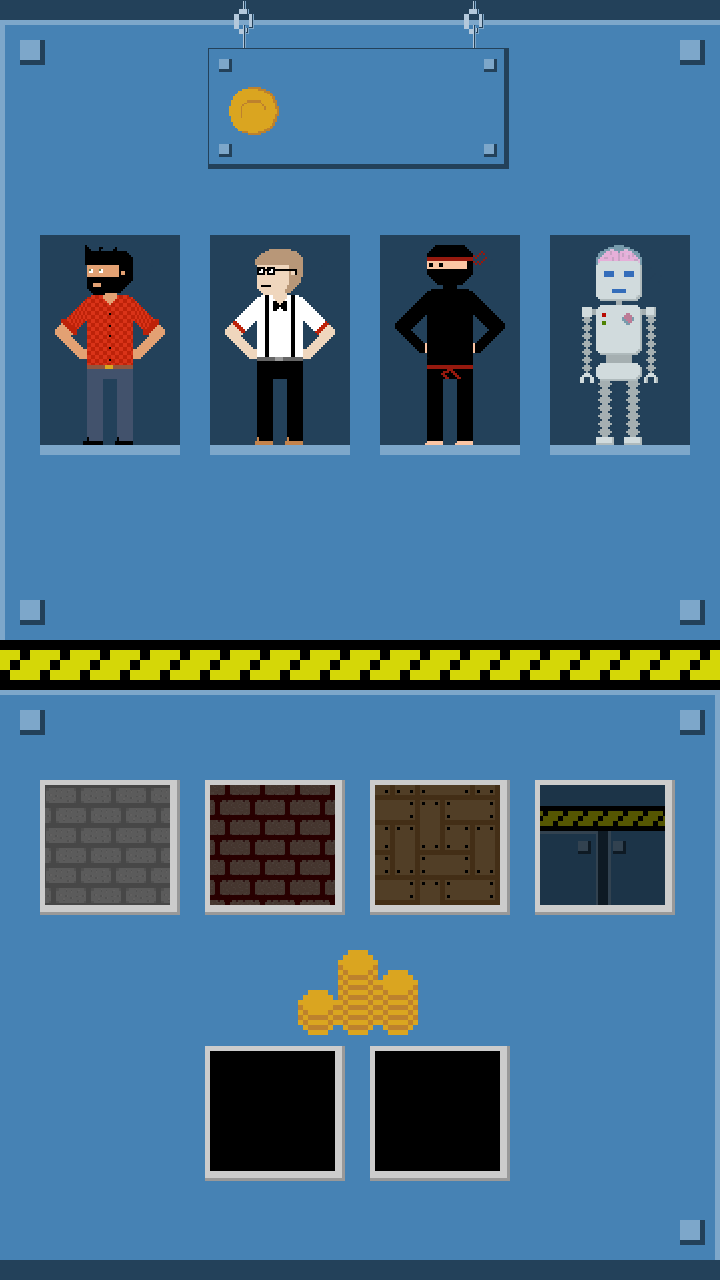
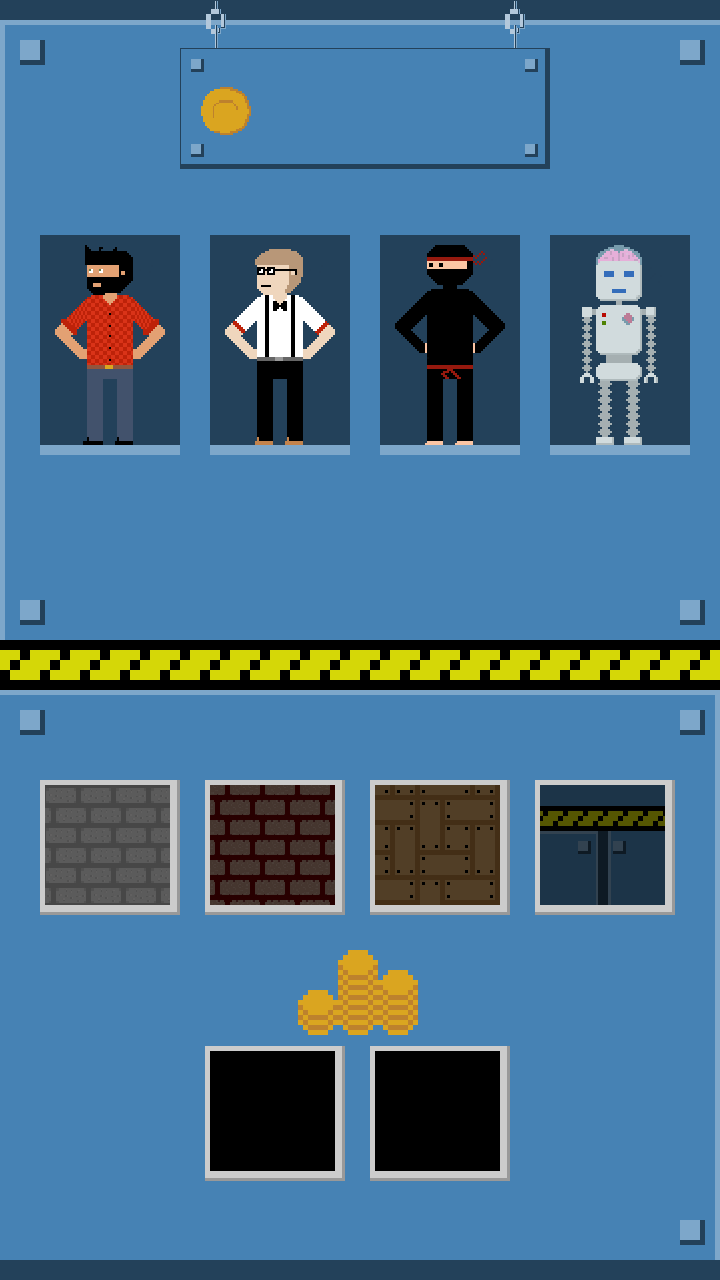
Implementado coins tiles en store

Changed region(s): [[0.2444, 0.0, 0.3972, 0.1562], [0.6722, 0.0, 0.7639, 0.1562], [0.6417, 0.0, 0.6722, 0.0312]]

diff --git a/PixelJumpingEscape/src/com/lucianosimo/pixeljumpingescape/scene/StoreScene.java b/PixelJumpingEscape/src/com/lucianosimo/pixeljumpingescape/scene/StoreScene.java
@@ -9,10 +9,8 @@ import org.andengine.entity.scene.menu.item.IMenuItem;
 import org.andengine.entity.scene.menu.item.SpriteMenuItem;
 import org.andengine.entity.scene.menu.item.decorator.ScaleMenuItemDecorator;
 import org.andengine.entity.sprite.Sprite;
-import org.andengine.entity.text.Text;
-import org.andengine.entity.text.TextOptions;
+import org.andengine.entity.sprite.TiledSprite;
 import org.andengine.input.touch.TouchEvent;
-import org.andengine.util.adt.align.HorizontalAlign;
 
 import android.app.AlertDialog;
 import android.content.DialogInterface;
@@ -64,7 +62,9 @@ public class StoreScene extends BaseScene implements IOnMenuItemClickListener{
 	private Sprite unlockSteelButton;
 	
 	private int coins;
-	private Text coinsText;
+	//private Text coinsText;
+	
+	private TiledSprite[] storeCoins;
 	
 	private final static int NERD_UNLOCK_VALUE = 25;
 	private final static int NINJA_UNLOCK_VALUE = 100;
@@ -84,9 +84,9 @@ public class StoreScene extends BaseScene implements IOnMenuItemClickListener{
 		screenWidth = resourcesManager.camera.getWidth();
 		screenHeight = resourcesManager.camera.getHeight();
 		storeScene = new MenuScene(camera);
+		loadGameVariables();
 		createBackground();
 		createStoreChildScene();
-		loadGameVariables();
 	}
 
 	@Override
@@ -127,7 +127,19 @@ public class StoreScene extends BaseScene implements IOnMenuItemClickListener{
 		
 		storeScene.buildAnimations();
 		
-		coinsText = new Text(screenWidth / 2 + 40, screenHeight - 110 , resourcesManager.store_coins_font, "0123456789", new TextOptions(HorizontalAlign.LEFT), vbom);
+		storeCoins = new TiledSprite[5];
+        
+		storeCoins[0] = new TiledSprite(565, screenHeight - 110, resourcesManager.store_coins_tiled_region.deepCopy(), vbom);
+		storeCoins[1] = new TiledSprite(510, screenHeight - 110, resourcesManager.store_coins_tiled_region.deepCopy(), vbom);
+		storeCoins[2] = new TiledSprite(455, screenHeight - 110, resourcesManager.store_coins_tiled_region.deepCopy(), vbom);
+		storeCoins[3] = new TiledSprite(400, screenHeight - 110, resourcesManager.store_coins_tiled_region.deepCopy(), vbom);
+		storeCoins[4] = new TiledSprite(345, screenHeight - 110, resourcesManager.store_coins_tiled_region.deepCopy(), vbom);
+		
+		for (int i = 0; i < storeCoins.length; i++) {
+			storeScene.attachChild(storeCoins[i]);
+		}
+		
+		createStoreCoinsTiledSprites();
 
 		storeMenuItem.setPosition(100, 100);
 		playAdButton.setPosition(275, 170);
@@ -136,9 +148,7 @@ public class StoreScene extends BaseScene implements IOnMenuItemClickListener{
 		storeScene.setOnMenuItemClickListener(this);
 		
 		storeScene.setBackgroundEnabled(false);
-		
-		storeScene.attachChild(coinsText);
-		
+
 		setChildScene(storeScene);
 	}
 
@@ -171,10 +181,86 @@ public class StoreScene extends BaseScene implements IOnMenuItemClickListener{
 		loadStages();
 	}
 	
+	private void createStoreCoinsTiledSprites() {
+        StoreScene.this.activity.runOnUiThread(new Runnable() {
+			
+			@Override
+			public void run() {				
+				int coinsIndex;
+				
+				if (coins == 0) {
+					storeCoins[0].setPosition(400, storeCoins[0].getY());
+				}
+				
+				if (coins > 0) {
+					coinsIndex = coins % 10;
+					storeCoins[0].setCurrentTileIndex(coinsIndex);
+					storeCoins[0].setPosition(400, storeCoins[0].getY());
+				} else if (coins == 0) {
+					storeCoins[0].setCurrentTileIndex(0);
+				}
+				
+				if (coins > 9) {
+					storeCoins[1].setVisible(true);
+					coinsIndex = (coins/10) % 10;
+					storeCoins[1].setCurrentTileIndex(coinsIndex);
+					
+					storeCoins[0].setPosition(419, storeCoins[0].getY());
+					storeCoins[1].setPosition(363, storeCoins[0].getY());
+				} else {
+					storeCoins[1].setVisible(false);
+				}
+				
+				if (coins > 99) {
+					storeCoins[2].setVisible(true);
+					coinsIndex = (coins/100) % 10;
+					storeCoins[2].setCurrentTileIndex(coinsIndex);
+					
+					storeCoins[0].setPosition(437, storeCoins[0].getY());
+					storeCoins[1].setPosition(386, storeCoins[0].getY());
+					storeCoins[2].setPosition(335, storeCoins[0].getY());
+				} else {
+					storeCoins[2].setVisible(false);
+				}
+				
+				if (coins > 999) {
+					storeCoins[3].setVisible(true);
+					coinsIndex = (coins/1000) % 10;
+					storeCoins[3].setCurrentTileIndex(coinsIndex);
+					
+					storeCoins[0].setPosition(478, storeCoins[0].getY());
+					storeCoins[1].setPosition(427, storeCoins[0].getY());
+					storeCoins[2].setPosition(376, storeCoins[0].getY());
+					storeCoins[3].setPosition(325, storeCoins[0].getY());
+				} else {
+					storeCoins[3].setVisible(false);
+				}
+				
+				if (coins > 9999) {
+					storeCoins[4].setVisible(true);
+					coinsIndex = (coins/10000) % 10;
+					storeCoins[4].setCurrentTileIndex(coinsIndex);
+					
+					storeCoins[0].setPosition(504, storeCoins[0].getY());
+					storeCoins[1].setPosition(453, storeCoins[0].getY());
+					storeCoins[2].setPosition(402, storeCoins[0].getY());
+					storeCoins[3].setPosition(351, storeCoins[0].getY());
+					storeCoins[4].setPosition(300, storeCoins[0].getY());
+				} else {
+					storeCoins[4].setVisible(false);
+				}
+				
+				for (int i = 0; i < storeCoins.length; i++) {
+					storeScene.detachChild(storeCoins[i]);
+					storeScene.attachChild(storeCoins[i]);
+				}
+			}
+		});		
+	}
+	
 	private void loadCoins() {
 		SharedPreferences sharedPreferences = PreferenceManager.getDefaultSharedPreferences(activity);
 		coins = sharedPreferences.getInt("coins", 0);
-		coinsText.setText("" + coins);
 	}
 	
 	private void loadPlayers() {
@@ -387,7 +473,7 @@ public class StoreScene extends BaseScene implements IOnMenuItemClickListener{
 		editor.putBoolean("unlockedNerd", true);
 		editor.commit();
 		coins = coins - NERD_UNLOCK_VALUE;
-		coinsText.setText("" + coins);
+		createStoreCoinsTiledSprites();
 		saveCoins(coins);
 	}
 	
@@ -397,7 +483,7 @@ public class StoreScene extends BaseScene implements IOnMenuItemClickListener{
 		editor.putBoolean("unlockedNinja", true);
 		editor.commit();
 		coins = coins - NINJA_UNLOCK_VALUE;
-		coinsText.setText("" + coins);
+		createStoreCoinsTiledSprites();
 		saveCoins(coins);
 	}
 	
@@ -407,7 +493,7 @@ public class StoreScene extends BaseScene implements IOnMenuItemClickListener{
 		editor.putBoolean("unlockedRobot", true);
 		editor.commit();
 		coins = coins - ROBOT_UNLOCK_VALUE;
-		coinsText.setText("" + coins);
+		createStoreCoinsTiledSprites();
 		saveCoins(coins);
 	}
 	
@@ -417,7 +503,7 @@ public class StoreScene extends BaseScene implements IOnMenuItemClickListener{
 		editor.putBoolean("unlockedBrick", true);
 		editor.commit();
 		coins = coins - BRICK_UNLOCK_VALUE;
-		coinsText.setText("" + coins);
+		createStoreCoinsTiledSprites();
 		saveCoins(coins);
 	}
 	
@@ -427,7 +513,7 @@ public class StoreScene extends BaseScene implements IOnMenuItemClickListener{
 		editor.putBoolean("unlockedWood", true);
 		editor.commit();
 		coins = coins - WOOD_UNLOCK_VALUE;
-		coinsText.setText("" + coins);
+		createStoreCoinsTiledSprites();
 		saveCoins(coins);
 	}
 	
@@ -437,7 +523,7 @@ public class StoreScene extends BaseScene implements IOnMenuItemClickListener{
 		editor.putBoolean("unlockedSteel", true);
 		editor.commit();
 		coins = coins - STEEL_UNLOCK_VALUE;
-		coinsText.setText("" + coins);
+		createStoreCoinsTiledSprites();
 		saveCoins(coins);
 	}
 	
@@ -450,7 +536,7 @@ public class StoreScene extends BaseScene implements IOnMenuItemClickListener{
 	
 	private void addCoins(int rewardCoins) {
 		coins = coins + rewardCoins;
-		coinsText.setText("" + coins);
+		createStoreCoinsTiledSprites();
 		saveCoins(coins);
 	}
 	

diff --git a/PixelJumpingEscape/src/com/lucianosimo/pixeljumpingescape/manager/ResourcesManager.java b/PixelJumpingEscape/src/com/lucianosimo/pixeljumpingescape/manager/ResourcesManager.java
@@ -5,9 +5,7 @@ import java.util.Random;
 import org.andengine.audio.music.MusicFactory;
 import org.andengine.engine.Engine;
 import org.andengine.engine.camera.SmoothCamera;
-import org.andengine.opengl.font.Font;
 import org.andengine.opengl.font.FontFactory;
-import org.andengine.opengl.texture.ITexture;
 import org.andengine.opengl.texture.TextureOptions;
 import org.andengine.opengl.texture.atlas.bitmap.BitmapTextureAtlas;
 import org.andengine.opengl.texture.atlas.bitmap.BitmapTextureAtlasTextureRegionFactory;
@@ -18,7 +16,6 @@ import org.andengine.opengl.texture.atlas.buildable.builder.ITextureAtlasBuilder
 import org.andengine.opengl.texture.region.ITextureRegion;
 import org.andengine.opengl.texture.region.ITiledTextureRegion;
 import org.andengine.opengl.vbo.VertexBufferObjectManager;
-import org.andengine.util.adt.color.Color;
 import org.andengine.util.debug.Debug;
 
 import android.content.SharedPreferences;
@@ -75,7 +72,6 @@ public class ResourcesManager {
 	private BuildableBitmapTextureAtlas menuBackgroundTextureAtlas;
 	
 	//Store fonts
-	public Font store_coins_font;
 		
 	//Store items
 	public ITextureRegion store_background_region;
@@ -88,7 +84,11 @@ public class ResourcesManager {
 	public ITextureRegion store_play_ad_button_region;
 	public ITextureRegion store_rate_us_button_region;
 	
+	//Score tiles
+	public ITiledTextureRegion store_coins_tiled_region;
+	
 	private BuildableBitmapTextureAtlas storeBackgroundTextureAtlas;
+	private BuildableBitmapTextureAtlas storeCoinsTextureAtlas;
 	private BuildableBitmapTextureAtlas storeTextureAtlas;
 	
 	//Game audio
@@ -291,6 +291,7 @@ public class ResourcesManager {
 		
 		storeTextureAtlas = new BuildableBitmapTextureAtlas(activity.getTextureManager(), 512, 512, TextureOptions.BILINEAR);
 		storeBackgroundTextureAtlas = new BuildableBitmapTextureAtlas(activity.getTextureManager(), 720, 1280, TextureOptions.BILINEAR_PREMULTIPLYALPHA);
+		storeCoinsTextureAtlas = new BuildableBitmapTextureAtlas(activity.getTextureManager(), 550, 55, TextureOptions.NEAREST);
 
 		store_background_region = BitmapTextureAtlasTextureRegionFactory.createFromAsset(storeBackgroundTextureAtlas, activity, "store_background.png");
 		store_back_button_region = BitmapTextureAtlasTextureRegionFactory.createFromAsset(storeTextureAtlas, activity, "store_back_button.png");
@@ -302,10 +303,14 @@ public class ResourcesManager {
 		store_play_ad_button_region = BitmapTextureAtlasTextureRegionFactory.createFromAsset(storeTextureAtlas, activity, "store_play_ad_button.png");
 		store_rate_us_button_region = BitmapTextureAtlasTextureRegionFactory.createFromAsset(storeTextureAtlas, activity, "store_rateus_button.png");
 		
+		store_coins_tiled_region = BitmapTextureAtlasTextureRegionFactory.createTiledFromAsset(storeCoinsTextureAtlas, activity, "store_score_tiles.png", 10, 1);
+		
 		try {
 			this.storeBackgroundTextureAtlas.build(new BlackPawnTextureAtlasBuilder<IBitmapTextureAtlasSource, BitmapTextureAtlas>(0, 1, 0));
+			this.storeCoinsTextureAtlas.build(new BlackPawnTextureAtlasBuilder<IBitmapTextureAtlasSource, BitmapTextureAtlas>(0, 1, 0));
 			this.storeTextureAtlas.build(new BlackPawnTextureAtlasBuilder<IBitmapTextureAtlasSource, BitmapTextureAtlas>(0, 1, 0));
 			this.storeBackgroundTextureAtlas.load();
+			this.storeCoinsTextureAtlas.load();
 			this.storeTextureAtlas.load();
 		} catch (final TextureAtlasBuilderException e) {
 			org.andengine.util.debug.Debug.e(e);
@@ -314,9 +319,6 @@ public class ResourcesManager {
 	
 	private void loadStoreFonts() {
 		FontFactory.setAssetBasePath("fonts/store/");
-		final ITexture store_coins_texture = new BitmapTextureAtlas(activity.getTextureManager(), 256, 256, TextureOptions.BILINEAR_PREMULTIPLYALPHA);
-		store_coins_font = FontFactory.createStrokeFromAsset(activity.getFontManager(), store_coins_texture, activity.getAssets(), "karmaticArcade.ttf", 45, true, Color.BLACK_ARGB_PACKED_INT, 0.5f, Color.BLACK_ARGB_PACKED_INT);
-		store_coins_font.load();
 	}
 	
 	private void loadStoreAudio() {
@@ -325,11 +327,12 @@ public class ResourcesManager {
 	
 	private void unloadStoreTextures() {
 		this.storeBackgroundTextureAtlas.unload();
+		this.storeCoinsTextureAtlas.unload();
 		this.storeTextureAtlas.unload();
 	}
 	
 	private void unloadStoreFonts() {
-		store_coins_font.unload();		
+		
 	}
 	
 	private void unloadStoreAudio() {
